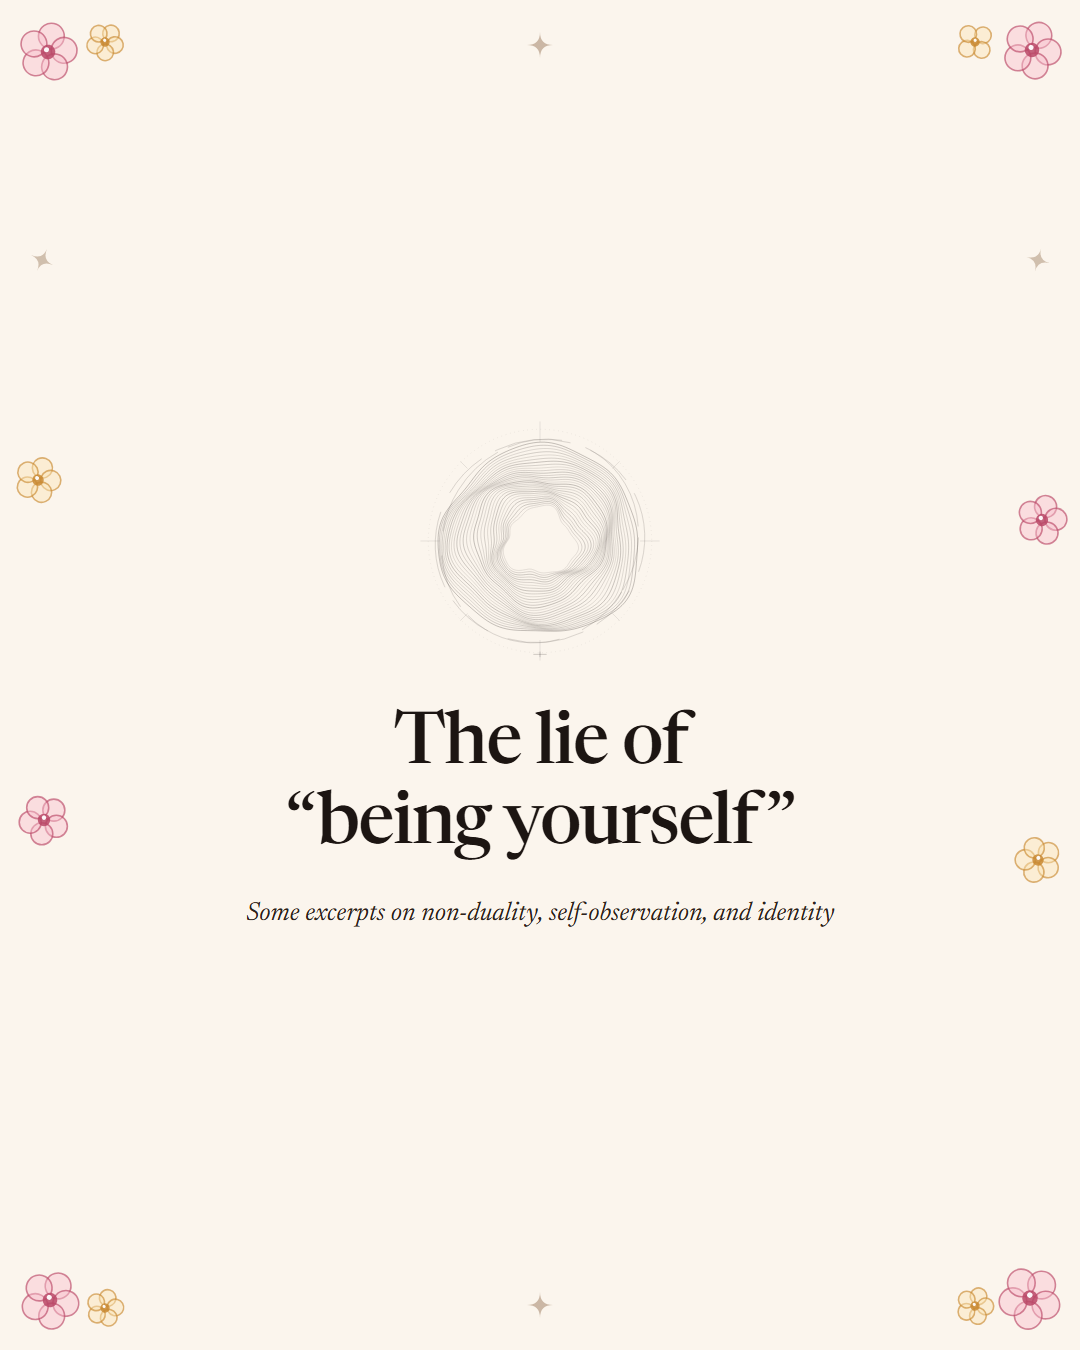
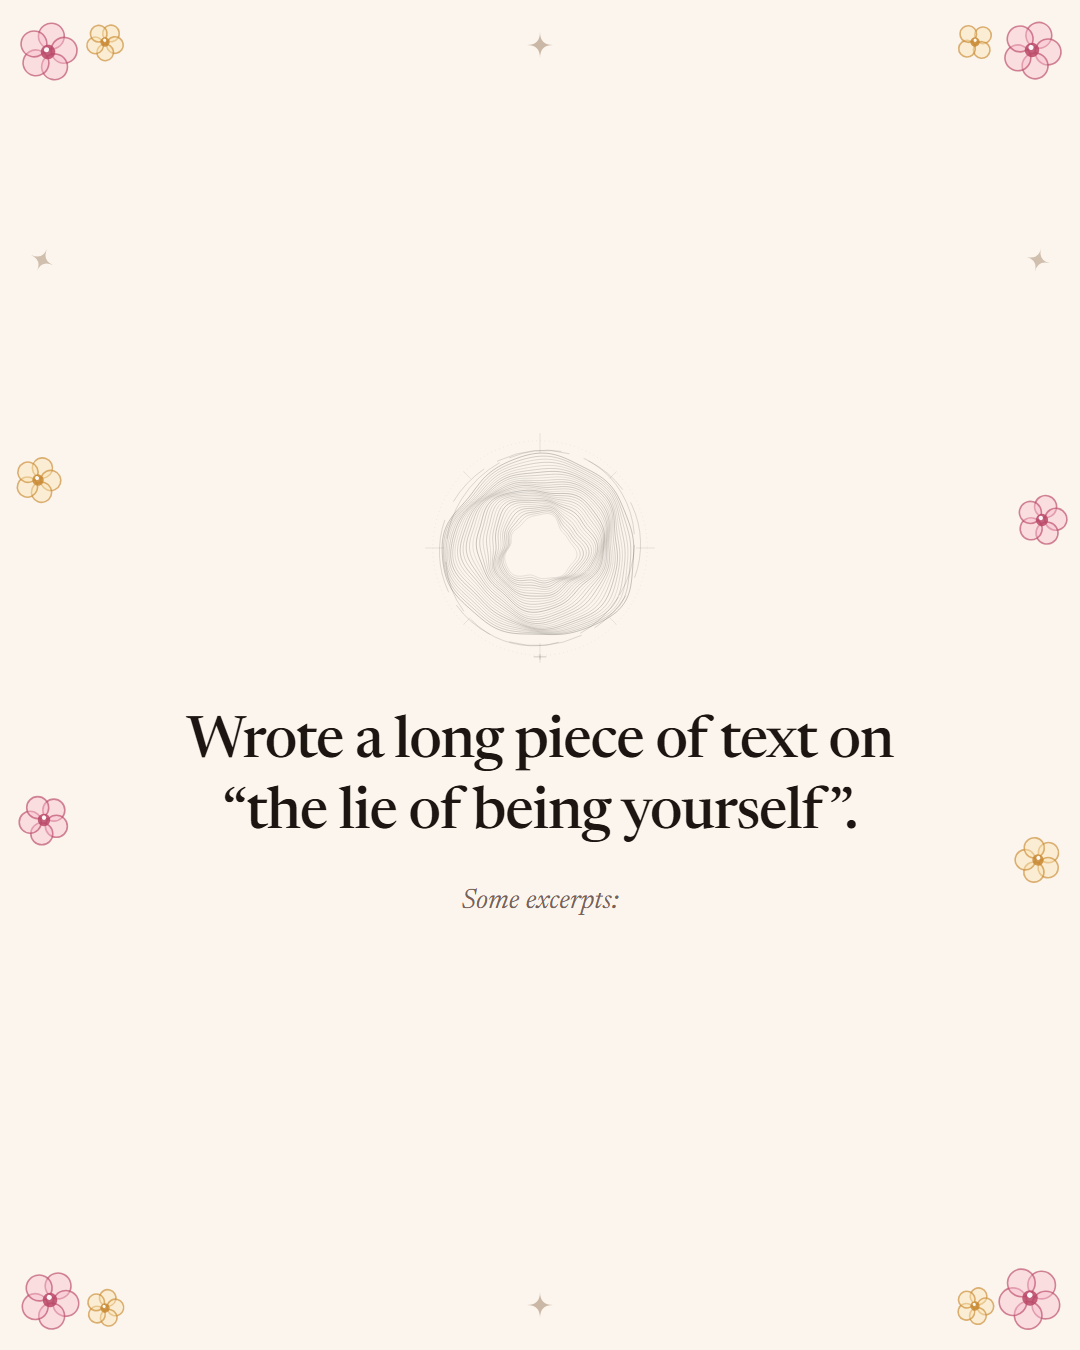
fix(insta): move intro statement to slide 1 cover and clean slide 8 CTA

Changed region(s): [[0.1833, 0.5289, 0.825, 0.6844], [0.3972, 0.3111, 0.6111, 0.4978]]

diff --git a/insta-carousel.html b/insta-carousel.html
@@ -575,7 +575,7 @@
     function getSlidesData() {
       if (currentMode === 'excerpts') {
         const slides = [
-          { type: 'cover', subtitle: '“Some excerpts on non-duality, self-observation, and identity”' }
+          { type: 'cover', title: 'Wrote a long piece of text on<br>“the lie of being yourself”.', subtitle: 'Some excerpts:', titleSize: '58px' }
         ];
         excerptParas.forEach(paras => {
           slides.push({ type: 'text', paras });
@@ -753,9 +753,9 @@
             <div class="cover-art" style="width:250px;height:250px;">
               ${motionSvg}
             </div>
-            <div class="cover-title-group" style="gap:28px;">
-              <h1 class="cover-title" style="font-size:72px;line-height:1.12;">The lie of<br>“being yourself”</h1>
-              <p class="cover-hook" style="font-size:26px;line-height:1.52;max-width:720px;">${slide.subtitle || '“You say, ‘I just want to be myself.’ What do you mean by that? Which self are you talking about?”'}</p>
+            <div class="cover-title-group" style="gap:24px;">
+              <h1 class="cover-title" style="font-size:${slide.titleSize || '72px'};line-height:1.16;letter-spacing:-0.02em;">${slide.title || 'The lie of<br>“being yourself”'}</h1>
+              <p class="cover-hook" style="font-size:26px;line-height:1.52;max-width:720px;font-style:italic;">${slide.subtitle || '“You say, ‘I just want to be myself.’ What do you mean by that? Which self are you talking about?”'}</p>
             </div>
           </div>
         `;
@@ -768,7 +768,7 @@
             </div>
             <div style="display:flex;flex-direction:column;align-items:center;gap:24px;max-width:760px;">
               <h2 style="font-family:'Newsreader',Georgia,serif;font-size:52px;font-weight:500;letter-spacing:-0.02em;">Continue Reading</h2>
-              <p style="font-family:'Newsreader',Georgia,serif;font-size:26px;line-height:1.5;font-style:italic;color:var(--paper-body);">Wrote a long piece of text on “the lie of being yourself”. If it interests you, can read the full text here:</p>
+              <p style="font-family:'Newsreader',Georgia,serif;font-size:26px;line-height:1.5;font-style:italic;color:var(--paper-body);">If it interests you, can read the full text here:</p>
               <div style="margin-top:8px;padding:16px 28px;background:rgba(186, 72, 103, 0.08);border:1px solid rgba(186, 72, 103, 0.25);border-radius:999px;font-family:'JetBrains Mono',monospace;font-size:16px;letter-spacing:0.06em;color:#992e4a;font-weight:600;">${slide.url}</div>
               <span style="font-family:'JetBrains Mono',monospace;font-size:14px;letter-spacing:0.22em;text-transform:uppercase;color:var(--text-muted);margin-top:8px;">Nikit Hamal</span>
             </div>

diff --git a/js/app.js b/js/app.js
@@ -9,6 +9,41 @@
   const $ = (selector, root = document) => root.querySelector(selector);
   const $$ = (selector, root = document) => Array.from(root.querySelectorAll(selector));
 
+  // ============================================
+  // CLEAN TRACKING PARAMS (fbclid, gclid, utm_*, …)
+  // Social/ad redirects append junk like ?slug=x&fbclid=…. The post still
+  // loads (URLSearchParams ignores extras), but the junk stays in the
+  // address bar and leaks into og:url / copied links. Strip it in place.
+  // ============================================
+
+  const TRACKING_PARAMS = new Set([
+    'fbclid', 'gclid', 'gbraid', 'wbraid', 'msclkid', 'dclid',
+    'ttclid', 'twclid', 'igshid', 'yclid', 'zanpid', 'scop',
+    'mc_cid', 'mc_eid', '_ga', '_gl', '_openstat',
+    'vero_conv', 'vero_id', 'mkt_tok', 'fb_action_ids',
+    'fb_action_types', 'fb_source', 'fb_ref'
+  ]);
+
+  function isTrackingParam(name) {
+    const n = name.toLowerCase();
+    return TRACKING_PARAMS.has(n) || n.startsWith('utm_');
+  }
+
+  function stripTrackingParams() {
+    try {
+      const url = new URL(window.location.href);
+      // Collect first: deleting inside forEach skips entries.
+      const junk = [];
+      url.searchParams.forEach((_, name) => {
+        if (isTrackingParam(name)) junk.push(name);
+      });
+      if (junk.length) {
+        junk.forEach((name) => url.searchParams.delete(name));
+        window.history.replaceState(null, '', url.toString());
+      }
+    } catch (e) {}
+  }
+
   let nextPageToken = null;
   let isFetching = false;
 
@@ -606,6 +641,7 @@
     if ($('#og-title')) $('#og-title').setAttribute('content', fullTitle);
     if ($('#og-desc')) $('#og-desc').setAttribute('content', excerpt);
     if ($('#og-url')) $('#og-url').setAttribute('content', postUrl);
+    if ($('#canonical-url')) $('#canonical-url').setAttribute('href', postUrl);
     if ($('#og-image')) $('#og-image').setAttribute('content', postImage);
     if ($('#twitter-title')) $('#twitter-title').setAttribute('content', fullTitle);
     if ($('#twitter-desc')) $('#twitter-desc').setAttribute('content', excerpt);
@@ -926,6 +962,7 @@
   // ============================================
 
   function init() {
+    stripTrackingParams();
     initTheme();
     initAccordions();
     initModals();

diff --git a/read.html b/read.html
@@ -6,6 +6,7 @@
   <meta name="viewport" content="width=device-width, initial-scale=1.0, maximum-scale=5.0" />
   <meta name="description" content="You say, “I just want to be myself.” What do you mean by that? An essay by Nikit Hamal." />
   <meta name="robots" content="index, follow" />
+  <link rel="canonical" id="canonical-url" href="https://nikit.is-a.dev/read.html?slug=the-lie-of-being-yourself" />
   <meta name="author" content="Nikit Hamal" />
   <meta name="theme-color" content="#faf9f6" />
   <meta name="application-name" content="Nikit Hamal" />
